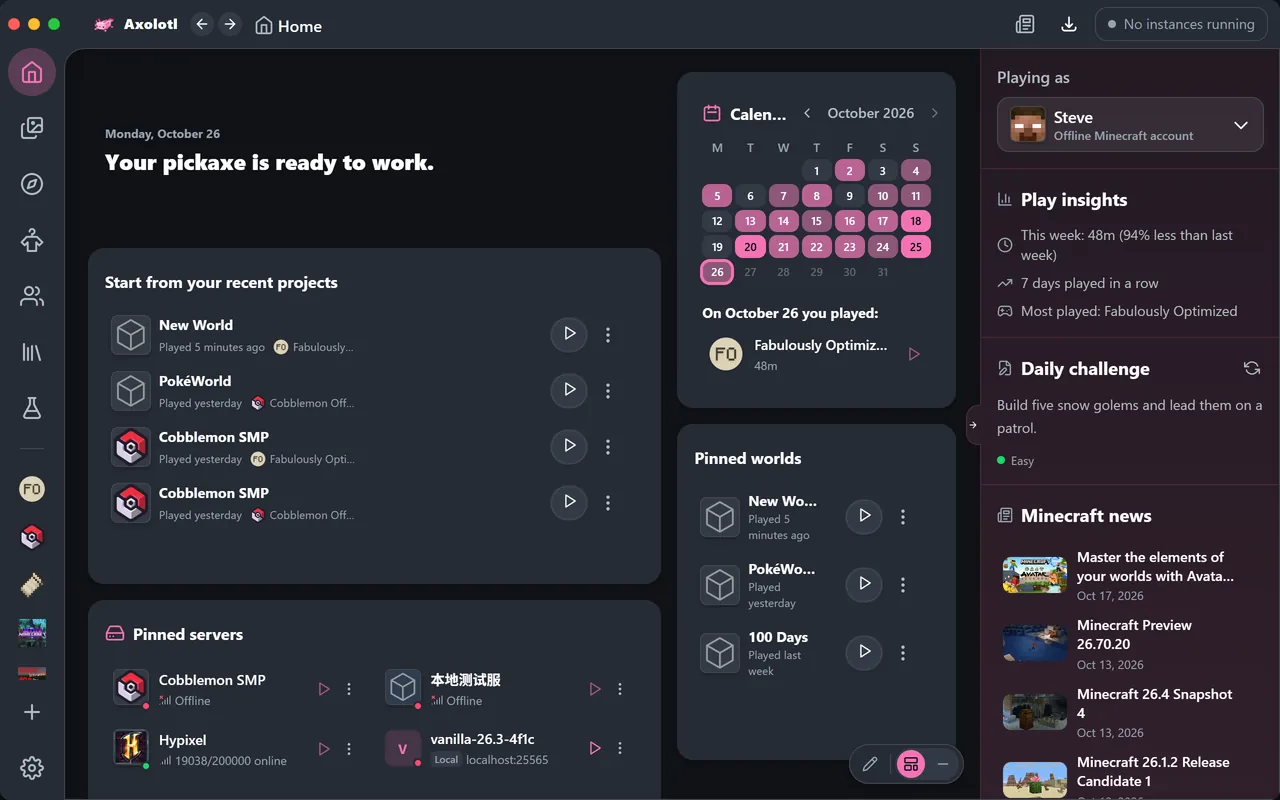
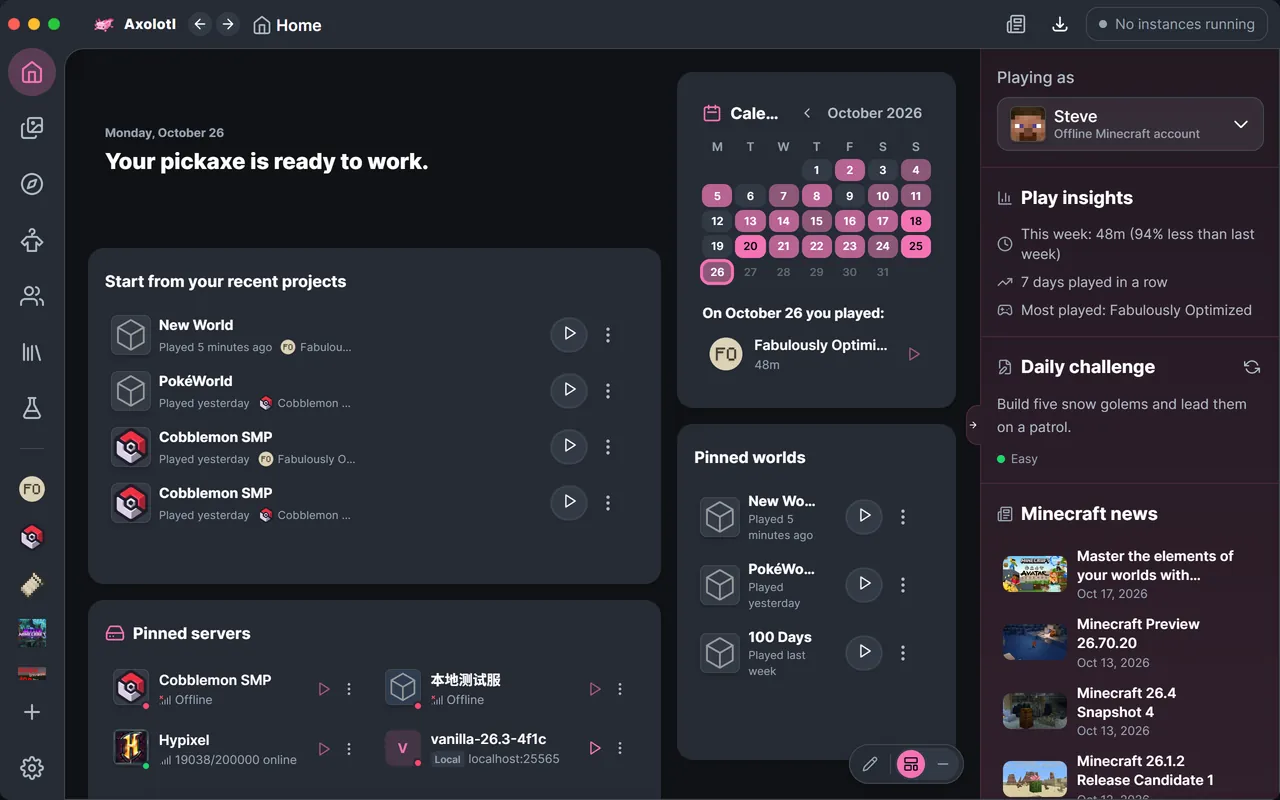
fix(website): show Steve's own head on the preview's Steve account
The preview's account named Steve had the saved Herobrine skin equipped,
so its avatar (in the live preview and in the poster screenshots) showed
Herobrine's head. The account now wears the default Steve skin from the
app's DEFAULT_SKINS, with Herobrine kept as a saved custom skin, and the
posters are recaptured from it. They now also render in Inter, which the
capture previously could not load from Modrinth's CDN.

diff --git a/src/components/launcher-preview/lib/state/accounts.ts b/src/components/launcher-preview/lib/state/accounts.ts
@@ -45,9 +45,10 @@ function defaultAccounts(): MinecraftAccount[] {
 }
 
 /**
- * The account's own skins (the app's `CustomMinecraftSkin` rows): one custom
- * skin, the app's bundled Herobrine texture, which is equipped. The default
- * skins are listed by the Skins page from the app's DEFAULT_SKINS snapshot.
+ * The account's skins: one saved custom skin, the app's bundled Herobrine
+ * texture, and the equipped default Steve (CLASSIC) from the app's DEFAULT_SKINS
+ * snapshot, so the account named Steve wears Steve's head. The Skins page lists
+ * the other default skins from that snapshot.
  */
 export const defaultSkins: SkinEntry[] = [
     {
@@ -58,6 +59,16 @@ export const defaultSkins: SkinEntry[] = [
         texture: '/launcher-preview/skins/herobrine.png',
         cape_id: null,
         source: 'custom',
+        is_equipped: false,
+    },
+    {
[1 lines of base64/hex data omitted]
+        name: 'Steve',
+        section: 'Default skins',
+        variant: 'CLASSIC',
+        texture: '/launcher-preview/skins/default/b2ba29508efc57a0.png',
+        cape_id: null,
+        source: 'default',
         is_equipped: true,
     },
 ]

diff --git a/src/components/launcher-preview/lib/skin-head.ts b/src/components/launcher-preview/lib/skin-head.ts
@@ -3,6 +3,11 @@ import { ref } from 'vue'
 const heads = ref(
     new Map<string, string>([
         ['/launcher-preview/skins/steve.png', '/launcher-preview/skins/heads/steve.png'],
+        // The default Steve skin (DEFAULT_SKINS) is the same texture.
+        [
+            '/launcher-preview/skins/default/b2ba29508efc57a0.png',
+            '/launcher-preview/skins/heads/steve.png',
+        ],
         ['/launcher-preview/skins/herobrine.png', '/launcher-preview/skins/heads/herobrine.png'],
     ]),
 )
